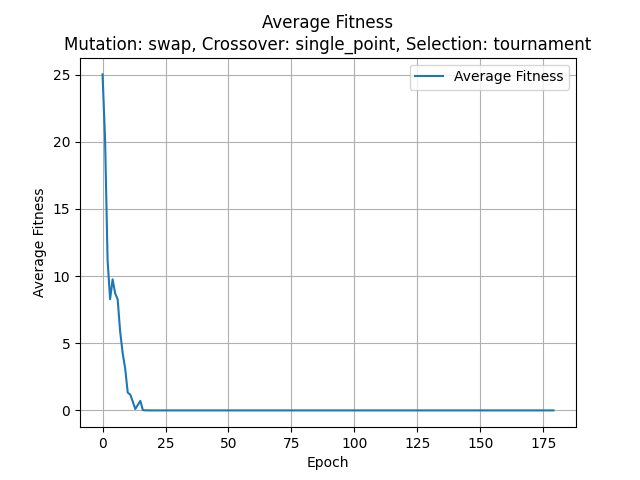
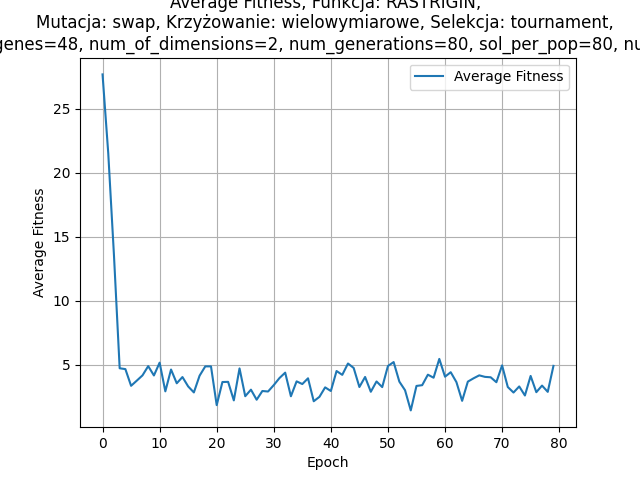
added plots desc

diff --git a/main_bin.py b/main_bin.py
@@ -157,25 +157,25 @@ match (crossover_type):  #przypisanie własnych funkcji crossover
         crossover_name = CrossingMethodsBin.SinglePointCrossover.value
     case CrossingMethodsBin.DOUBLE_POINT:
         crossover_type = TwoPointCrossover
-        crossover_name = CrossingMethodsBin.DOUBLE_POINT_STRING
+        crossover_name = CrossingMethodsBin.DOUBLE_POINT_STRING.value
     case CrossingMethodsBin.TRIPLE_POINT:
         crossover_type = ThreePointCrossover
-        crossover_name = CrossingMethodsBin.TRIPLE_POINT_STRING
+        crossover_name = CrossingMethodsBin.TRIPLE_POINT_STRING.value
     case CrossingMethodsBin.UNIFORM:
         crossover_type = UniformCrossover
-        crossover_name = CrossingMethodsBin.UNIFORM_STRING
+        crossover_name = CrossingMethodsBin.UNIFORM_STRING.value
     case CrossingMethodsBin.GRAIN:
         crossover_type = GrainCrossover
-        crossover_name = CrossingMethodsBin.GRAIN_STRING
+        crossover_name = CrossingMethodsBin.GRAIN_STRING.value
     case CrossingMethodsBin.SCANNING:
         crossover_type = ScanningCrossover(num_of_dimensions).crossover
-        crossover_name = CrossingMethodsBin.SCANNING_STRING
+        crossover_name = CrossingMethodsBin.SCANNING_STRING.value
     case CrossingMethodsBin.PARTIAL:
         crossover_type = PartialCopyCrossover
-        crossover_name = CrossingMethodsBin.PARTIAL_STRING
+        crossover_name = CrossingMethodsBin.PARTIAL_STRING.value
     case CrossingMethodsBin.MULTIVARIATE:
         crossover_type = MultivariateCrossover(q).crossover
-        crossover_name = CrossingMethodsBin.MULTIVARIATE_STRING
+        crossover_name = CrossingMethodsBin.MULTIVARIATE_STRING.value
 
 def fitness_func_min(ga_instance, solution,
                      solution_idx):
@@ -277,6 +277,7 @@ for stat, label in zip(statistics, labels):
         values = stat,
         file_name = os.path.join('Plots', f'Bin{label.replace(" ", "")}'),
         title = label,
+        func_enum = func_enum.name,
         mutation_type = mutation_type,
         crossover_type = crossover_name,
         selection_type = parent_selection_type,
@@ -289,4 +290,3 @@ for stat, label in zip(statistics, labels):
 
 
 
-    plt.legend([f"num_genes={num_genes}", f"num_of_dimensions={num_of_dimensions}", f"num_generations={num_generations}", f"sol_per_pop={sol_per_pop}", f"num_parents_mating={num_parents_mating}"])

diff --git a/Consts/enums.py b/Consts/enums.py
@@ -15,14 +15,14 @@ class CrossingMethodsBin(Enum):
     BUILD_IN_SINGLE_POINT = 'single_point'
     BUILD_IN_DOUBLE_POINT = 'two_points'
     BUILD_IN_UNIFORM = 'uniform'
-    SINGLE_POINT_STRING = 'Krzyżowanie 1 punktowe'
-    DOUBLE_POINT_STRING = 'Krzyżowanie 2 punktowe'
-    TRIPLE_POINT_STRING = 'Krzyżowanie 3 punktowe'
-    UNIFORM_STRING = 'Krzyżowanie jednorodne'
-    GRAIN_STRING = 'Krzyżowanie ziarniste'
-    SCANNING_STRING = 'Krzyżowanie skanujące'
-    PARTIAL_STRING = 'Krzyżowanie częściowe'
-    MULTIVARIATE_STRING = 'Krzyżowanie wielowymiarowe'
+    SINGLE_POINT_STRING = '1 punktowe'
+    DOUBLE_POINT_STRING = '2 punktowe'
+    TRIPLE_POINT_STRING = '3 punktowe'
+    UNIFORM_STRING = 'jednorodne'
+    GRAIN_STRING = 'ziarniste'
+    SCANNING_STRING = 'skanujące'
+    PARTIAL_STRING = 'częściowe'
+    MULTIVARIATE_STRING = 'wielowymiarowe'
 
     ALL_OPTIONS_STRING = [SINGLE_POINT_STRING,
                           DOUBLE_POINT_STRING,
@@ -38,21 +38,21 @@ class CrossingMethodsDec(Enum):
     NONE = -1
     TEST = -2
     SINGLE_POINT_ARITHMETIC = 0
-    SINGLE_POINT_ARITHMETIC_STRING = 'Krzyżowanie 1 arytmetyczne'
+    SINGLE_POINT_ARITHMETIC_STRING = 'pojedyncze arytmetyczne'
     ARITHMETIC = 1
-    ARITHMETIC_STRING = 'Krzyżowanie arytmetyczne'
+    ARITHMETIC_STRING = 'arytmetyczne'
     LINEAR = 2
-    LINEAR_STRING = 'Krzyżowanie linearne'
+    LINEAR_STRING = 'linearne'
     BLEND_ALFA = 3
-    BLEND_ALFA_STRING = 'Krzyżowanie mieszające typu alfa'
+    BLEND_ALFA_STRING = 'mieszające typu alfa'
     BLEND_ALFA_BETA = 4
-    BLEND_ALFA_BETA_STRING = 'Krzyżowanie mieszające typu alfa i beta'
+    BLEND_ALFA_BETA_STRING = 'mieszające typu alfa i beta'
     AVERAGE = 5
-    AVERAGE_STRING = 'Krzyżowanie uśredniające'
+    AVERAGE_STRING = 'uśredniające'
     SIMPLE = 6
-    SIMPLE_STRING = 'Krzyżowanie proste'
+    SIMPLE_STRING = 'proste'
     RANDOM = 7
-    RANDOM_STRING = 'Krzyżowanie przypadkowe'
+    RANDOM_STRING = 'przypadkowe'
 
     ALL_OPTIONS_STRING = [SINGLE_POINT_ARITHMETIC_STRING, ARITHMETIC_STRING, LINEAR_STRING, BLEND_ALFA_STRING,
                           BLEND_ALFA_BETA_STRING, AVERAGE_STRING, SIMPLE_STRING, RANDOM_STRING]

diff --git a/Helpers/plotsNFiles.py b/Helpers/plotsNFiles.py
@@ -1,13 +1,12 @@
 from matplotlib import pyplot as plt
 
-def make_plot(values: list, file_name: str, title: str, mutation_type: str, crossover_type: str, selection_type: str, num_genes: str, num_of_dimensions: str, num_generations: str, sol_per_pop: str, num_parents_mating: str,  y_scale: str = 'linear') -> None:
+def make_plot(values: list, file_name: str, title: str, func_enum : str, mutation_type: str, crossover_type: str, selection_type: str, num_genes: str, num_of_dimensions: str, num_generations: str, sol_per_pop: str, num_parents_mating: str,  y_scale: str = 'linear') -> None:
     plt.plot(values, label=title)
     plt.yscale(y_scale)
-    plt.title(f'{title}\nMutation: {mutation_type}, Crossover: {crossover_type}, Selection: {selection_type}')
+    plt.title(f'{title}, Funkcja: {func_enum}, \nMutacja: {mutation_type}, Krzyżowanie: {crossover_type}, Selekcja: {selection_type}, \nGA Parametry: num_genes={num_genes}, num_of_dimensions={num_of_dimensions}, num_generations={num_generations}, sol_per_pop={sol_per_pop}, num_parents_mating={num_parents_mating}')
     plt.xlabel('Epoch')
     plt.ylabel(title)
-    # plt.legend()
-    plt.legend([f"num_genes={num_genes}", f"num_of_dimensions={num_of_dimensions}", f"num_generations={num_generations}", f"sol_per_pop={sol_per_pop}", f"num_parents_mating={num_parents_mating}"])
+    plt.legend()
     plt.grid(True)
     plt.savefig(f'{file_name}.png')
     plt.show()
